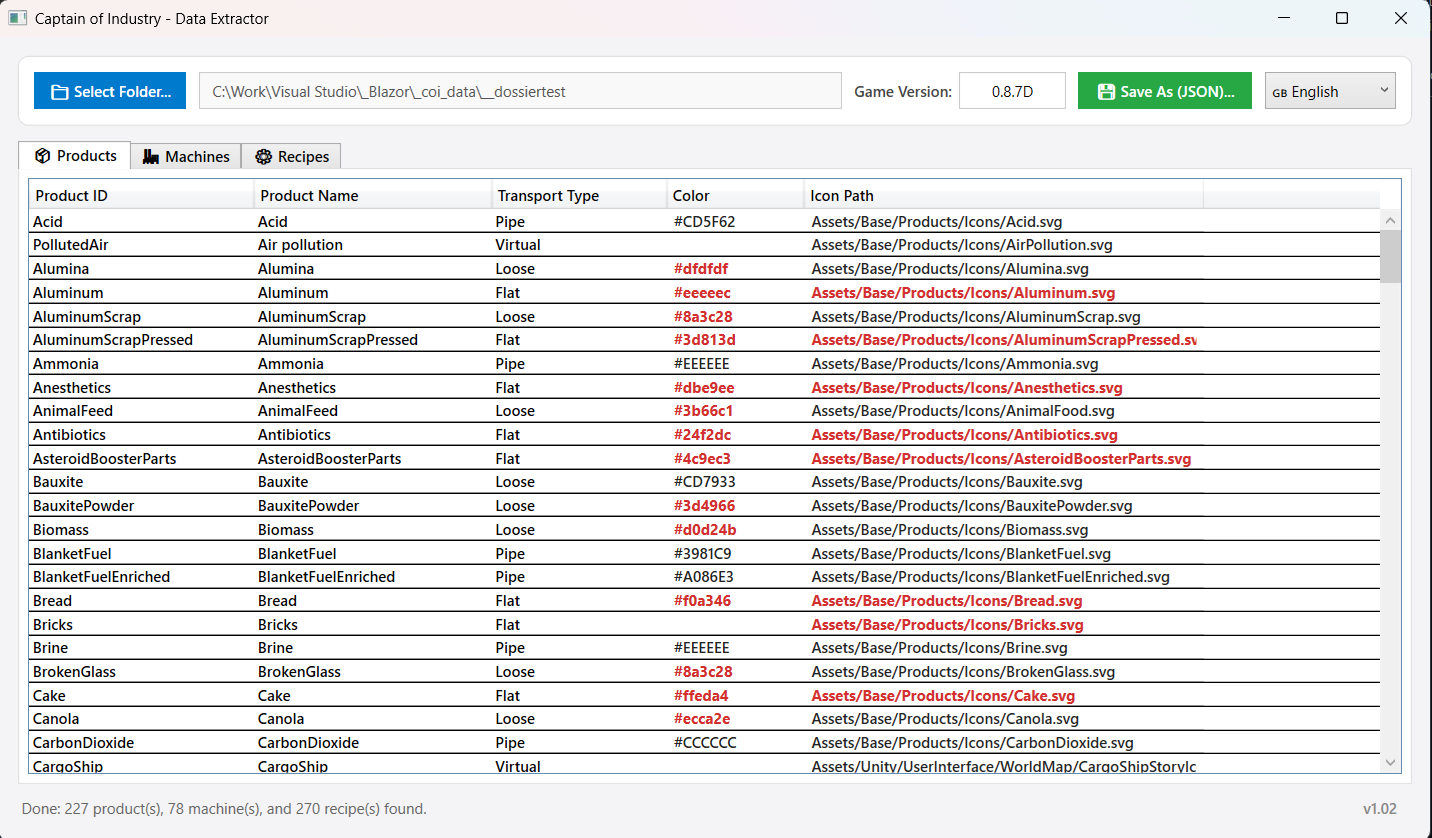
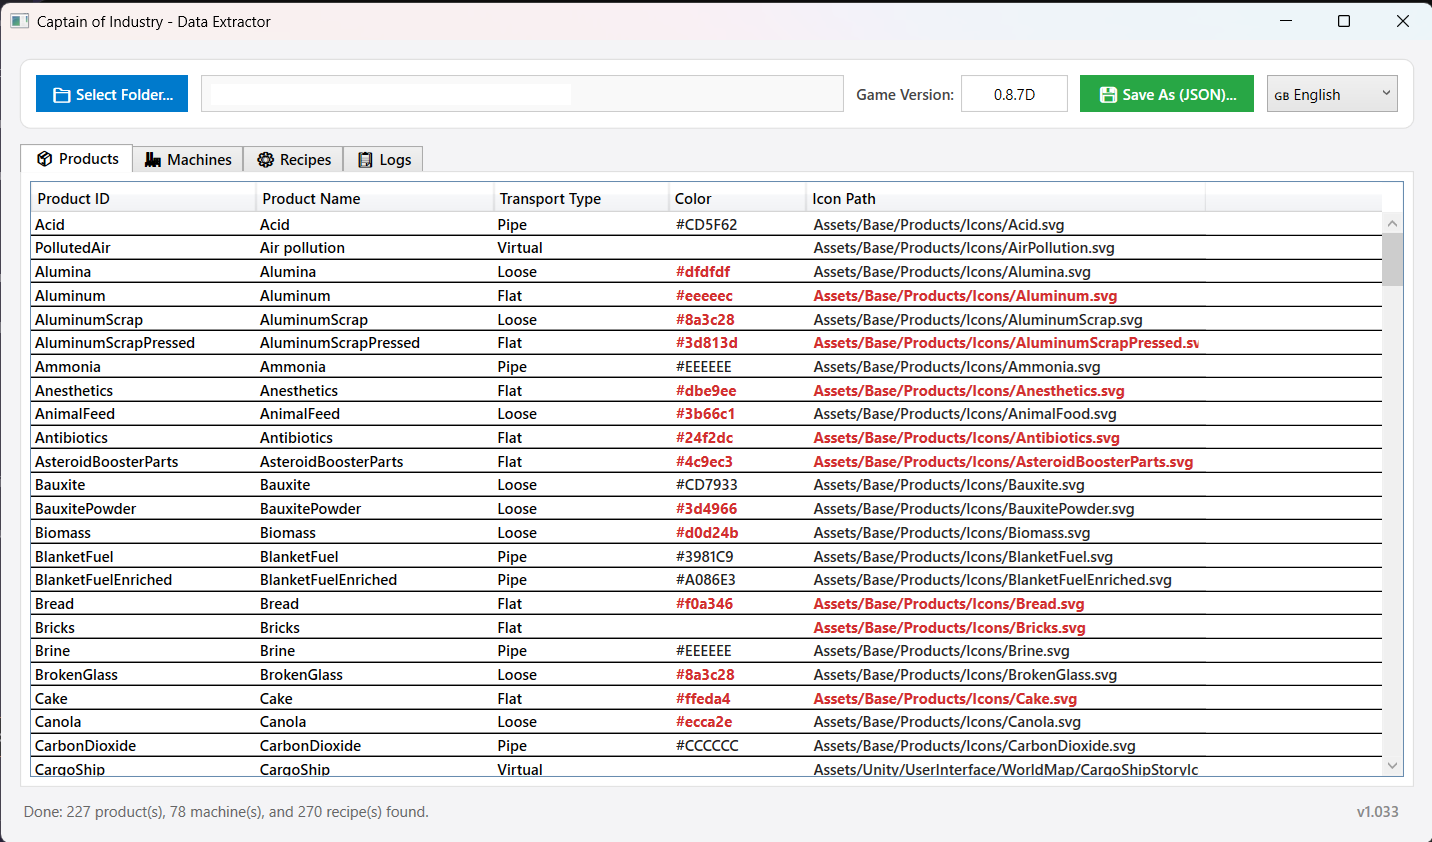
1.034 update screenshot and readme

diff --git a/LocalizationManager.cs b/LocalizationManager.cs
@@ -5,7 +5,7 @@ namespace CoiDataExtractor
 {
     public class LocalizationManager : INotifyPropertyChanged
     {
-        public const string AppVersion = "1.033";
+        public const string AppVersion = "1.034";
         public static LocalizationManager Instance { get; } = new();
 
         private string _currentLanguage = "en";

diff --git a/README.md b/README.md
@@ -13,9 +13,8 @@
 ![Application Interface](Docs/screenshot_app1.png)
 ![Application Interface](Docs/screenshot_app2.png)
 ![Application Interface](Docs/screenshot_app3.png)
+![Application Interface](Docs/screenshot_app4.png)
 
-### Exported JSON Sample
-![Exported JSON Result](Docs/screenshot_json.png)
 
 ---
 
